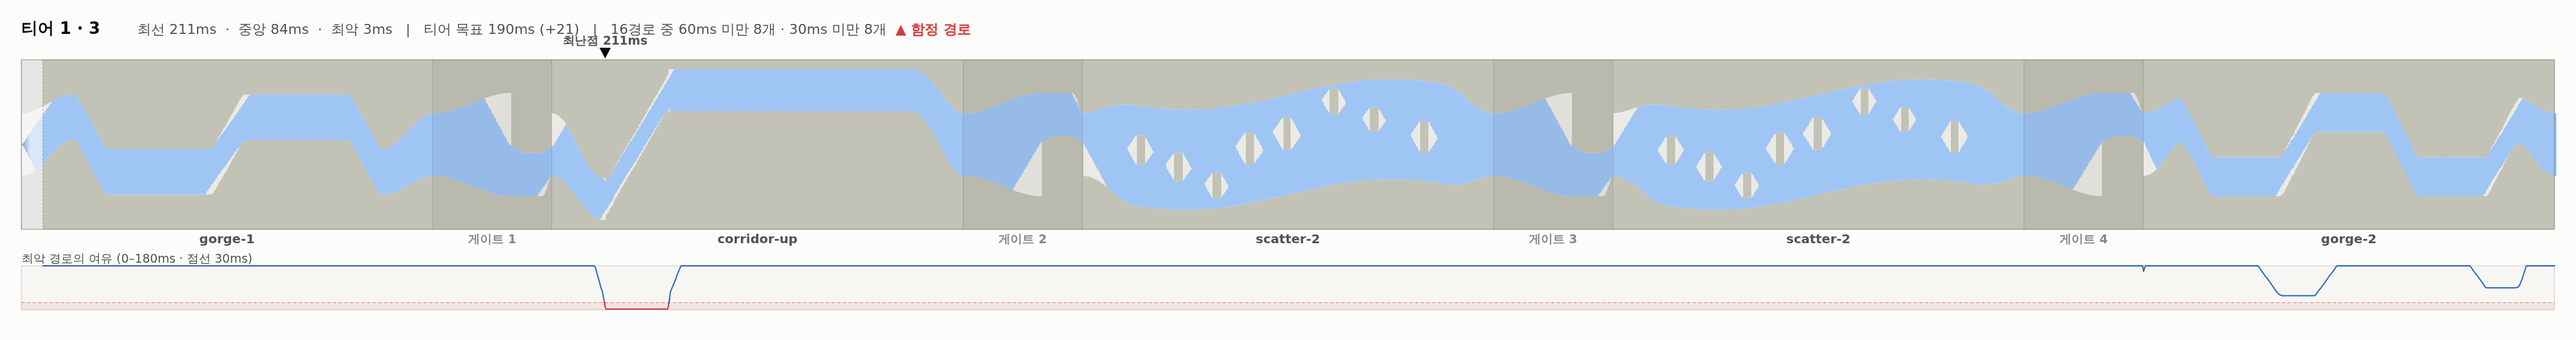
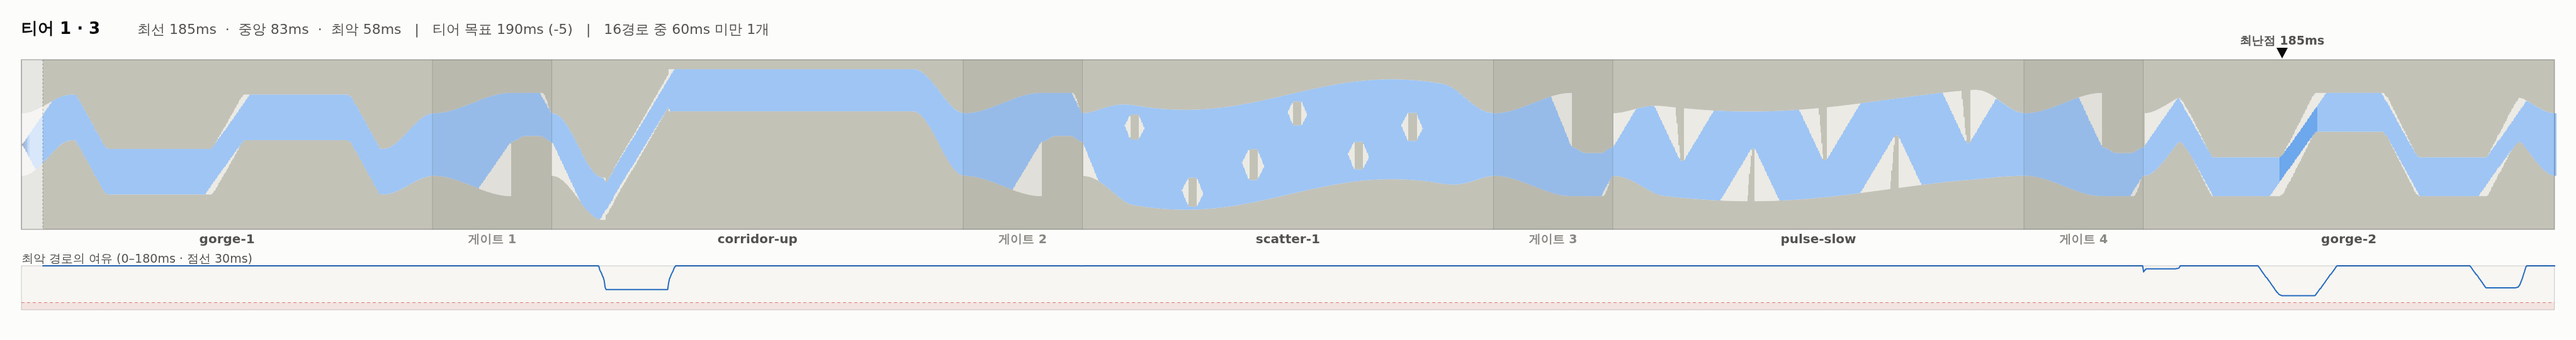
feat(wave-runner): 스테이지 재큐레이션 — 함정을 없애고 코스를 가른다
큐레이션이 통과시키던 것과 실제로 좋은 스테이지가 어긋나 있었다. 기준 네 가지를
바꾸고 12스테이지를 다시 골랐다.

- **공정성에 하한(50ms)이 생겼다.** 1번 기준이 `passable` 뿐이었는데 솔버의
  `passable` 은 여유 3ms 도 참이다. 12스테이지 중 4개가 사람에게 불가능한 경로를
  품고 있었고 검증은 전부 ✓ 였다. 하한 값은 예민하지 않다 — 후보들의 최악 여유가
  양극 분포라(티어 4: 0~10ms 48개 · 60ms+ 145개 · 사이 3개) 30ms 든 60ms 든 같다
- **최소 스프레드 기준을 없앴다.** 후보 3600개를 전수로 풀어 보니 어떤 값에서도
  병목이 아니었고, 방향이 반대였다 — 스프레드는 최선과 최악의 차이이므로 함정이
  깊을수록 높은 점수를 받는다. 함정이 가장 깊던 두 스테이지가 스프레드 최고였다
- **첫 합격에서 멈추지 않는다.** `break` 때문에 인접 티어가 같은 modal 골격으로
  빨려 들어갔다. 이제 후보를 모두 모은 뒤 티어를 가로질러 중복을 거부한다
- **티어마다 성격을 요구한다** — 1 협곡·회랑 / 2 산개 / 3 맥동 / 4 3유형 이상

공정성과 차별화는 절대 완화하지 않고, 모자라면 성격 → 밴드 순으로 푼다.

결과 (±2)

- 함정 경로 23개 → **0개**, 최악 여유의 최소값 3ms → 56ms
- 코스 중복 4/5 이상 9쌍(완전 동일 1쌍) → **0쌍**, 최악 2/5
- 티어 곡선 214/178/152/115 → **187/159/141/122** (목표 190/160/130/100)
- gorge-2 28% → 20%, corridor-flat 1회 → 5회, scatter-1 0회 → 4회

**시드가 전부 바뀌었으므로 저장된 스테이지 최고 기록은 다른 코스의 것이 된다.**

정정

제안 단계에서 "함정 없는 티어 4 의 최선 여유는 130ms 아래로 못 내려간다"고 적었는데
틀렸다. 재큐레이션이 T4·3 을 최선 79ms · 최악 56ms 로 찾았다. 130ms 는 그때 뽑은
표본의 최소값이었을 뿐 구조적 하한이 아니었다.

남은 것

- 티어 4 가 목표보다 +22 쉽다. 함정이 만들던 어려움은 여유로 되찾을 수 없고 최난
  구간의 지속 길이를 티어 지표로 들여야 한다. T4·1 과 T4·2 는 성격까지 쌍둥이다
- ±3 에서 곡선이 역전된다(티어 3 이 티어 2 보다 쉽다)

수정

- 플레이테스트 주행 상한 120 → 240초. Stage 는 사망하면 처음부터라 상한이 한 주행이
  아니라 몇 번의 재시도를 담아야 하는데, 새 T1·1 에서 오토파일럿이 한 번 죽자 모자랐다.
  함께 `playtest.mjs` 의 `protocolTimeout` 을 600초로 열었다 — 기본값 180초가
  시나리오의 상한을 대신 정하고 있었다

검증: verify PASS (lint · build · playtest 9 shots · 오류 0). 전 경로 192개 통과,
[…]

diff --git a/projects/wave-runner/tests/verify/curate-stages.ts b/projects/wave-runner/tests/verify/curate-stages.ts
@@ -5,14 +5,51 @@
  * 거의 모든 경로에서 참이었고(94~100%), 대신 **여유가 최선 198ms 와 최악 10ms 로**
  * 갈렸다. 통과 가능하지만 여유 10ms 인 경로는 사람에게는 불가능하다.
  *
- * 그래서 기준을 바꾼다. 좋은 스테이지는 세 가지를 만족한다.
+ * 좋은 스테이지는 네 가지를 만족한다.
  *
- *  1. **공정성** — 모든 경로가 통과 가능해야 한다(보이지 않는 막다른 길 금지).
+ *  1. **공정성** — 모든 경로가 통과 가능하고, **최악 경로도 사람이 낼 수 있어야 한다.**
  *  2. **난이도** — 최선 경로의 여유가 티어별 목표 구간에 들어야 한다.
- *  3. **선택의 의미** — 최선과 최악 경로의 여유 차이가 충분해야 한다.
- *     차이가 없으면 어느 관으로 가든 같으므로 게이트가 아무것도 묻지 않는다.
+ *  3. **차별화** — 다른 스테이지와 코스가 달라야 한다. 같은 길을 다시 달리면 티어가
+ *     오른 의미가 없다.
+ *  4. **티어의 성격** — 티어마다 주로 묻는 것이 달라야 한다.
  *
- * 세 번째가 3단계에서 비로소 가능해진 판정이다 — 근사로는 "여유"를 잴 수 없다.
+ * ## 0.5.1 에서 바뀐 것과 그 근거
+ *
+ * **① 공정성에 하한이 생겼다.** 그전까지 1번 기준은 `passable` 뿐이었는데, 솔버의
+ * `passable` 은 여유 3ms 도 참이다. 실제로 12스테이지 중 4개가 사람에게 불가능한
+ * 경로를 품고 있었고(티어 1 의 두 스테이지는 16경로 중 8개), 검증은 전부 통과하고
+ * 있었다. "보이지 않는 막다른 길 금지"가 형식적으로만 지켜지고 있었던 것이다.
+ *
+ * 하한을 얼마로 둘지는 다행히 예민하지 않다. 후보들의 최악 여유 분포가 **양극**이라
+ * (티어 4 기준 0~10ms 48개 · 60ms 이상 145개 · 그 사이 3개) 30ms 로 잡든 60ms 로
+ * 잡든 남는 후보가 같다. 50ms 는 그 골짜기 한가운데다.
+ *
+ * **② 최소 스프레드 기준을 없앴다.** 후보 900개 × 4티어를 전수로 풀어 보니 스프레드는
+ * 어떤 값(0/20/35)에서도 병목이 아니었다. 더 나쁜 것은 방향이다 — 스프레드는 최선과
+ * 최악의 차이이므로 **함정이 깊을수록 높은 점수를 받는다.** 실제로 함정이 가장 깊던
+ * 두 스테이지의 스프레드가 206ms, 207ms 로 가장 높았다. 하한이 생긴 이상 이 기준은
+ * 중복이면서 유해하다.
+ *
+ * **③ 첫 합격에서 멈추지 않는다.** 그전에는 조건을 만족하는 첫 시드를 잡고 `break`
+ * 했다. 그래서 인접 티어가 같은 modal 골격으로 빨려 들어갔고, T2·3 과 T3·1 은 섹터
+ * 배열이 **완전히 같아졌다.** 이제 후보를 모두 모은 뒤, 이미 채택한 코스와 같은 자리
+ * 섹터가 3개 이상 겹치면 건너뛴다(티어를 가로질러 본다).
+ *
+ * **④ 티어마다 성격을 요구한다.** 시드가 만들 수 있는 골격은 티어당 480여 가지로
+ * 충분한데, 기준이 여유만 보니 전부 비슷한 것으로 수렴했다. 무엇을 묻는 티어인지를
+ * 기준에 적어 둔다.
+ *
+ * ## 완화 순서
+ *
+ * 세 조건을 다 만족하는 후보가 3개에 못 미치면 **성격 → 밴드** 순으로 푼다.
+ * **공정성과 차별화는 절대 풀지 않는다.** 함정을 되살리거나 같은 코스를 다시 내느니
+ * 목표 여유에서 벗어나는 편이 낫다.
+ *
+ * 티어 4 에서 이 완화가 실제로 걸린다. 함정을 금지하면 티어 4 후보의 최선 여유가
+ * **130ms 아래로 내려가지 않기 때문**이다(최악 ≥50ms 인 147개 후보의 최선 최소값이
+ * 정확히 130). 목표 100ms 는 함정을 허용해야만 도달되는 값이었다 — 지금 티어 4 의
+ * 어려움 상당 부분을 함정이 만들고 있었다는 뜻이다. 이 구멍은 여유가 아니라 **최난
+ * 구간의 지속 길이**로 메워야 하고, 그건 별도 작업이다.
  *
  * 실행: pnpm exec tsx projects/wave-runner/tests/verify/curate-stages.ts
  */
@@ -24,17 +61,23 @@ import { STAGE_SECTORS, buildStageCourse } from "../../app/src/game/course";
 import { BASE_TUNING, startYFor } from "../../app/src/game/engine";
 import { MAX_TIER, STAGES_PER_TIER, stageKey } from "../../app/src/game/meta";
 import { solveCourse } from "../../app/src/game/solver";
-import type { AxisKey, Build } from "../../app/src/game/types";
+import type { AxisKey, Build, SectorType } from "../../app/src/game/types";
 
 const GATES = STAGE_SECTORS - 1;
 const PATHS = 1 << GATES;
-const CANDIDATES = 240;
+const CANDIDATES = 900;
 
 /** 티어가 오를수록 최선 경로의 여유가 좁아진다. 사람이 체감하는 난이도 곡선. */
 const targetSlackMs = (tier: number) => 190 - (tier - 1) * 30;
 const SLACK_BAND_MS = 38;
-/** 최선과 최악 경로의 여유 차이. 작으면 게이트가 아무것도 묻지 않는다. */
-const MIN_SPREAD_MS = 35;
+/**
+ * 최악 경로도 넘어야 하는 여유. 사람의 탭 타이밍 산포보다 좁은 경로는 이론상 통과
+ * 가능해도 통과할 수 없다. **측정값이 아니라 가정이다** — 다만 후보 분포가 양극이라
+ * 30~60ms 어디로 잡아도 결과가 같아, 이 가정에 대한 민감도가 낮다.
+ */
+const FAIRNESS_FLOOR_MS = 50;
+/** 이미 채택한 코스와 **같은 자리에 같은 섹터**가 이 개수를 넘으면 거부한다. */
+const MAX_SAME_SLOT = 2;
 
 /**
  * 큐레이션은 **출발 상한 ±2** 로 판정한다.
@@ -92,63 +135,114 @@ function sweep(seed: number, tier: number, tuning: typeof BASE_TUNING) {
  */
 function score(seed: number, tier: number): Score {
   const start = sweep(seed, tier, TUNING);
+  if (!start.allPassable) return { allPassable: false, bestMs: 0, worstMs: 0, spreadMs: 0 };
   const open = sweep(seed, tier, OPEN_TUNING);
   return {
-    allPassable: start.allPassable && open.allPassable,
+    allPassable: open.allPassable,
     bestMs: start.best,
     worstMs: start.worst,
     spreadMs: start.best - start.worst
   };
 }
 
-function accepts(s: Score, tier: number): boolean {
-  if (!s.allPassable) return false;
-  if (Math.abs(s.bestMs - targetSlackMs(tier)) > SLACK_BAND_MS) return false;
-  return s.spreadMs >= MIN_SPREAD_MS;
+/** 티어마다 주로 묻는 것. 유형 구성으로 표현한다. */
+const TIER_CHARACTER: Record<number, { note: string; holds: (types: SectorType[]) => boolean }> = {
+  1: {
+    note: "협곡·회랑 위주 — 동사를 몸에 익히는 자리",
+    holds: (t) => t.filter((x) => x === "gorge" || x === "corridor").length >= 3
+  },
+  2: { note: "산개 2개 이상 — 경로를 엮는다", holds: (t) => t.filter((x) => x === "scatter").length >= 2 },
+  3: { note: "맥동 2개 이상 — 타이밍을 묻는다", holds: (t) => t.filter((x) => x === "pulse").length >= 2 },
+  4: { note: "3유형 이상 — 종합", holds: (t) => new Set(t).size >= 3 }
+};
+
+interface Candidate {
+  seed: number;
+  s: Score;
+  ids: string[];
+  types: SectorType[];
 }
 
+const sectorsOf = (tier: number, seed: number) => {
+  const pieces = buildStageCourse(tier, 1, TUNING, seed).pieces.filter((p) => p.kind === "sector");
+  return {
+    ids: pieces.map((p) => p.sector!.id),
+    types: pieces.map((p) => p.sector!.type)
+  };
+};
+
+const sameSlots = (a: string[], b: string[]) => a.filter((v, i) => v === b[i]).length;
+
 const table: Record<string, number> = {};
+/** 차별화는 티어를 가로질러 본다 — T2·3 과 T3·1 이 같아졌던 것이 그래서다. */
+const takenCourses: string[][] = [];
+const lines: string[] = [];
 
 for (let tier = 1; tier <= MAX_TIER; tier += 1) {
-  for (let no = 1; no <= STAGES_PER_TIER; no += 1) {
-    let chosen = -1;
-    let chosenScore: Score | null = null;
-    let fallback = -1;
-    let fallbackScore: Score | null = null;
-    let fallbackErr = Number.POSITIVE_INFINITY;
+  const pool: Candidate[] = [];
+  let nPassable = 0;
+  for (let i = 0; i < CANDIDATES; i += 1) {
+    const seed = (tier * 7919 + i * 2654435761) >>> 0;
+    const s = score(seed, tier);
+    if (!s.allPassable) continue;
+    nPassable += 1;
+    // 공정성은 절대 풀지 않는 관문이다.
+    if (s.worstMs < FAIRNESS_FLOOR_MS) continue;
+    pool.push({ seed, s, ...sectorsOf(tier, seed) });
+  }
+  pool.sort((a, b) => Math.abs(a.s.bestMs - targetSlackMs(tier)) - Math.abs(b.s.bestMs - targetSlackMs(tier)));
 
-    for (let i = 0; i < CANDIDATES; i += 1) {
-      const seed = (tier * 7919 + no * 104729 + i * 2654435761) >>> 0;
-      const s = score(seed, tier);
-      const err = Math.abs(s.bestMs - targetSlackMs(tier)) + Math.max(0, MIN_SPREAD_MS - s.spreadMs);
-      if (s.allPassable && err < fallbackErr) {
-        fallbackErr = err;
-        fallback = seed;
-        fallbackScore = s;
-      }
-      if (accepts(s, tier)) {
-        chosen = seed;
-        chosenScore = s;
-        break;
-      }
+  const picked: Candidate[] = [];
+  const take = (requireCharacter: boolean, requireBand: boolean) => {
+    for (const c of pool) {
+      if (picked.length >= STAGES_PER_TIER) return;
+      if (picked.includes(c)) continue;
+      if (requireBand && Math.abs(c.s.bestMs - targetSlackMs(tier)) > SLACK_BAND_MS) continue;
+      if (requireCharacter && !TIER_CHARACTER[tier].holds(c.types)) continue;
+      if (takenCourses.some((t) => sameSlots(t, c.ids) > MAX_SAME_SLOT)) continue;
+      if (picked.some((p) => sameSlots(p.ids, c.ids) > MAX_SAME_SLOT)) continue;
+      picked.push(c);
+      takenCourses.push(c.ids);
     }
+  };
+  take(true, true);
+  const relaxedCharacter = picked.length < STAGES_PER_TIER;
+  if (relaxedCharacter) take(false, true);
+  const relaxedBand = picked.length < STAGES_PER_TIER;
+  if (relaxedBand) take(false, false);
 
-    if (chosen < 0) {
-      chosen = fallback;
-      chosenScore = fallbackScore;
-    }
-    table[stageKey(tier, no)] = chosen;
-    const s = chosenScore;
-    const mark = s && accepts(s, tier) ? "✓" : "△";
-    console.log(
-      `티어 ${tier} · ${no}  seed ${String(chosen).padStart(10)}` +
-        `  최선 ${s ? s.bestMs.toFixed(0) : "?"}ms (목표 ${targetSlackMs(tier)})` +
-        `  최악 ${s ? s.worstMs.toFixed(0) : "?"}ms` +
-        `  차이 ${s ? s.spreadMs.toFixed(0) : "?"}ms  ${mark}`
+  // 티어 안에서는 쉬운 것부터 — 같은 티어라도 1 → 3 으로 갈수록 조여지는 편이 낫다.
+  picked.sort((a, b) => b.s.bestMs - a.s.bestMs);
+
+  const relaxed = relaxedBand ? "밴드까지 완화" : relaxedCharacter ? "성격 완화" : "완화 없음";
+  lines.push(
+    `티어 ${tier}  ${TIER_CHARACTER[tier].note}\n` +
+      `        전경로통과 ${nPassable}/${CANDIDATES} → 공정성 하한 통과 ${pool.length} → 채택 ${picked.length}/${STAGES_PER_TIER} (${relaxed})`
+  );
+  picked.forEach((c, i) => {
+    table[stageKey(tier, i + 1)] = c.seed;
+    const off = c.s.bestMs - targetSlackMs(tier);
+    lines.push(
+      `  ${tier}·${i + 1}  seed ${String(c.seed).padStart(10)}` +
+        `  최선 ${c.s.bestMs.toFixed(0).padStart(3)}ms (목표 ${targetSlackMs(tier)}, ${off >= 0 ? "+" : ""}${off.toFixed(0)})` +
+        `  최악 ${c.s.worstMs.toFixed(0).padStart(3)}ms   ${c.ids.join(" → ")}`
     );
+  });
+  if (picked.length < STAGES_PER_TIER) {
+    lines.push(`  ⚠ 티어 ${tier}: 후보가 모자란다. CANDIDATES 를 늘리거나 목표를 조정해야 한다.`);
   }
 }
 
+lines.forEach((l) => console.log(l));
+
+// 얻어진 차별화와 커버리지를 그 자리에서 확인한다 — 기준이 실제로 먹었는지는 결과로만 안다.
+let worstOverlap = 0;
+for (let i = 0; i < takenCourses.length; i += 1)
+  for (let j = i + 1; j < takenCourses.length; j += 1)
+    worstOverlap = Math.max(worstOverlap, sameSlots(takenCourses[i], takenCourses[j]));
+const used = new Set(takenCourses.flat());
+console.log(`\n코스 중복 최악 ${worstOverlap}/5 (기준 ${MAX_SAME_SLOT})   섹터 커버리지 ${used.size}/12`);
+
 const out = path.join(fileURLToPath(new URL("../../app/src/game/stage-seeds.json", import.meta.url)));
 writeFileSync(out, `${JSON.stringify(table, null, 2)}\n`, "utf8");
-console.log(`\n${Object.keys(table).length}개 시드를 ${path.basename(out)} 에 구웠다.`);
+console.log(`${Object.keys(table).length}개 시드를 ${path.basename(out)} 에 구웠다.`);

diff --git a/projects/wave-runner/notes/course-difficulty/2026-09-16.md b/projects/wave-runner/notes/course-difficulty/2026-09-16.md
@@ -1,0 +1,77 @@
+# 통로 난이도 — 재큐레이션 전후 비교
+
+큐레이션 기준 네 가지를 바꾸고(공정성 하한 도입 · 최소 스프레드 제거 · 첫 합격 중단 제거 +
+코스 중복 거부 · 티어 성격 요구) 12스테이지를 다시 골랐다. 시드가 전부 바뀌었으므로
+저장된 `bestStageSec` 기록은 다른 코스의 것이 되었다.
+
+측정은 전부 축 상한 ±2(처음 만나는 조건, 큐레이션이 겨냥하는 값) 기준이다.
+
+## 결론
+
+**함정이 사라졌고 코스가 갈라졌다.** 사람에게 사실상 불가능한 경로 23개가 0개가 되었고,
+섹터 배열이 4/5 이상 겹치던 9쌍(그중 완전 동일 1쌍)이 0쌍이 되었다. 티어 1·2 의 곡선은
+목표와 거의 일치한다.
+
+**티어 4 는 예고한 대로 메워지지 않았다.** 목표 100ms 인데 실측 122ms 이고, 4·1 과 4·2 는
+최선 143ms 로 +43 이다. 함정이 만들던 어려움을 여유로는 되찾을 수 없다 — 최난 구간의
+지속 길이를 티어 지표로 들이는 별도 작업이 필요하다.
+
+## 숫자
+
+| 지표 | 전 | 후 |
+|---|---|---|
+| 함정 경로(여유 30ms 미만) | 4스테이지 · 23경로 | **0** |
+| 최악 여유의 최소값 | 3ms | **56ms** |
+| 여유 60ms 미만 경로(192경로 중) | 45개 | **14개** |
+| 코스 중복 4/5 이상 | 9쌍(완전 동일 1쌍) | **0쌍** (최악 2/5) |
+| 최다 사용 섹터 | gorge-2 17회 (28%) | gorge-2 12회 (20%) |
+| 섹터 커버리지 | 11/12 (scatter-1 미사용) | 11/12 (pulse-fast 미사용) |
+| 티어 곡선 (목표 190/160/130/100) | 214 / 178 / 152 / 115 | **187 / 159 / 141 / 122** |
+| 목표 대비 편차 | +24 / +18 / +22 / +15 | **−3 / −1 / +11 / +22** |
+
+## 그림에서 보이는 것
+
+12개 스트립의 실루엣이 전부 다르다. 이전에는 거의 모든 코스가
+`협곡 → 회랑 → 산개 → 맥동 → 협곡` 한 골격에 변주 하나였고 T2·3 과 T3·1 은 같은 그림이었다.
+
+최악 경로 선(스트립 아래)에서 빨간 구간이 전부 사라졌다. 이전에는 T1·2, T1·3 이 게이트 1
+직후 `corridor-up` 초입에서, T4·1 과 T4·3 이 마지막 `gorge-3` 에서 30ms 아래로 떨어졌다.
+
+`corridor-flat` 이 1회에서 5회로 늘었고, 그 구간은 균일한 진한 직사각형으로 보인다 —
+뾰족한 지점이 아니라 **지속 정밀**을 요구하는 유일한 형상이다.
+
+## 틀렸던 것을 정정한다
+
+제안 단계에서 **"함정 없는 티어 4 의 최선 여유는 130ms 아래로 내려갈 수 없다"** 고 적었다.
+틀렸다. 재큐레이션이 T4·3 을 최선 79ms · 최악 56ms 로 찾아냈다. 130ms 는 그때 뽑은
+후보 900개(다른 시드 수열)의 최소값이었을 뿐 구조적 하한이 아니었다. 표본의 최소값을
+경계로 일반화한 잘못이다.
+
+다만 방향 자체는 유지된다 — 그런 후보가 **희귀하다**. 티어 4 는 전 경로 통과가 226/900
+이고 하한까지 통과하면 151개로, 티어 1(795 → 418)의 3분의 1 수준이다.
+
+## 남은 문제
+
+- **T4·1 과 T4·2 가 성격상 쌍둥이다.** 최선 143 · 최악 107 · 최난 구간 373단위 `corridor-flat`
+  까지 같다. 중복 기준이 "같은 자리 같은 섹터"만 보기 때문에 자리가 어긋나면 통과한다.
+  유형 구성이나 난이도 프로파일까지 보는 기준이 필요하다.
+- **±3 에서 곡선이 역전된다.** 티어 3(172ms)이 티어 2(157ms)보다 쉽다. T3·2 가 ±2 에서
+  143ms 인데 ±3 에서 200ms 로 튄다. 큐레이션이 ±2 로만 재고 ±3 은 공정성만 묻기 때문이다.
+- **게이트가 묻는 것이 줄어든 스테이지가 있다.** T1·1 의 스프레드가 55ms, T3·2 가 31ms 다.
+  최소 스프레드 기준을 없앤 대가다. 그 기준은 함정을 보상하고 있어서 없애는 게 맞았지만,
+  하한이 생긴 지금은 **상한이 아니라 하한이 있는 스프레드 기준**을 다시 넣을 수 있다.
+- **pulse-fast 가 한 번도 안 나온다.** scatter-1 을 얻고 pulse-fast 를 잃어 커버리지는 11/12
+  그대로다.
+- **오토파일럿이 T1·1 에서 한 번 죽는다**(이전에는 12스테이지 전부 무사망). 16경로 전부
+  133ms 이상이라 공정성 문제는 아니고, 파일럿의 관 선택 정책이 여유가 아니라 빌드 중립을
+  겨냥하기 때문으로 보인다. 첫 스테이지치고 조인 편이라는 신호일 수는 있다.
+
+## 검증
+
+`verify` PASS — lint · build · playtest(9 shots · 오류 0). 전 경로 검증은 12스테이지 ×
+16경로 × 2상한 = 192경로 전부 통과하고, ±3 에서도 최악 여유가 56ms 아래로 내려가지 않는다.
+
+플레이테스트 하네스의 주행 상한을 240초로 올렸다. Stage 는 사망하면 처음부터 다시
+시작하므로 상한이 한 주행이 아니라 몇 번의 재시도를 담아야 하는데, 이전 값 120초는
+한 번 죽으면 부족했다. 함께 `playtest.mjs` 의 `protocolTimeout` 을 600초로 열었다 —
+그 기본값 180초가 시나리오의 상한을 대신 정하고 있었다.

diff --git a/projects/wave-runner/changelog.md b/projects/wave-runner/changelog.md
@@ -117,3 +117,46 @@ Endless 코스 재현성 수정.
 
 - 자동 플레이테스트의 주행 상한(180초)이 puppeteer `protocolTimeout` 기본값과 같아, Endless 가 오래 버틴 날에는 시나리오가 아니라 **프로토콜이 먼저 끊겨** 실패했다. 상한을 120초로 낮춰 여유를 뒀다
 - 시나리오에 주행 중 화면 두 장(`03b-stage-running`, `06b-endless-running`)을 추가했다 — 페이지 안에서 도는 오토파일럿을 기다리지 않고 그 사이에 찍는다
+
+## 0.5.1 — 2026-09-16
+
+스테이지 재큐레이션. 함정 경로를 없애고 코스를 갈랐다.
+
+큐레이션 기준 네 가지를 바꿨다.
+
+- **공정성에 하한이 생겼다(50ms).** 그전 1번 기준은 `passable` 뿐이었는데 솔버의
+  `passable` 은 여유 3ms 도 참이다. 12스테이지 중 4개가 사람에게 불가능한 경로를 품고
+  있었고(티어 1 의 두 스테이지는 16경로 중 8개) 검증은 전부 통과하고 있었다
+  - 하한 값은 예민하지 않다. 후보들의 최악 여유가 **양극 분포**라(티어 4 기준 0~10ms
+    48개 · 60ms 이상 145개 · 그 사이 3개) 30ms 든 60ms 든 남는 후보가 같다
+- **최소 스프레드 기준을 없앴다.** 후보 3600개를 전수로 풀어 보니 어떤 값에서도 병목이
+  아니었고, 방향이 더 나빴다 — 스프레드는 최선과 최악의 차이이므로 **함정이 깊을수록
+  높은 점수를 받는다.** 함정이 가장 깊던 두 스테이지의 스프레드가 206·207ms 로 최고였다
+- **첫 합격에서 멈추지 않는다.** 그전에는 조건을 만족하는 첫 시드에서 `break` 해서 인접
+  티어가 같은 골격으로 빨려 들어갔다. 이제 후보를 모두 모은 뒤, 티어를 가로질러 이미
+  채택한 코스와 같은 자리 섹터가 3개 이상 겹치면 건너뛴다
+- **티어마다 성격을 요구한다.** 티어 1 협곡·회랑 위주 · 티어 2 산개 · 티어 3 맥동 ·
+  티어 4 3유형 이상
+
+결과 (축 상한 ±2)
+
+- 함정 경로 **23개 → 0개**. 최악 여유의 최소값 3ms → 56ms
+- 코스 중복 4/5 이상 **9쌍(완전 동일 1쌍) → 0쌍**, 최악 2/5
+- 티어 곡선 214/178/152/115 → **187/159/141/122** (목표 190/160/130/100)
+- 섹터 편중 완화 — gorge-2 28% → 20%, `corridor-flat` 1회 → 5회, `scatter-1` 0회 → 4회
+
+**시드가 전부 바뀌었으므로 저장된 스테이지 최고 기록은 다른 코스의 것이 된다.**
+
+남은 것
+
+- **티어 4 가 목표보다 +22 쉽다.** 함정이 만들던 어려움은 여유로 되찾을 수 없다 —
+  최난 구간의 지속 길이를 티어 지표로 들여야 한다. T4·1 과 T4·2 는 성격까지 쌍둥이다
+- **±3 에서 곡선이 역전된다**(티어 3 이 티어 2 보다 쉽다). 큐레이션이 ±2 로만 재고
+  ±3 은 공정성만 묻기 때문이다
+
+수정한 것
+
+- 플레이테스트 주행 상한을 240초로. Stage 는 사망하면 처음부터라서 상한이 한 주행이
+  아니라 몇 번의 재시도를 담아야 하는데 120초는 한 번 죽으면 모자랐다. 함께
+  `playtest.mjs` 의 `protocolTimeout` 을 600초로 열었다 — 기본값 180초가 시나리오의
+  상한을 대신 정하고 있었다

diff --git a/projects/wave-runner/eval.md b/projects/wave-runner/eval.md
@@ -70,5 +70,9 @@ pnpm exec tsx projects/wave-runner/tests/verify/curate-stages.ts        # 스테
 - **런 초반 3섹터는 생성되지 않는다.** 공장에 줄 시간이 없는 자리라 수제 섹터로 **고정했다**(0.3.1). 재현성은 그래서 성립하지만 첫 30초의 다양성은 수제 12개 안에서만 나온다.
 - **Endless 도입부 3섹터 고정.** 재현성을 위해 그 자리를 수제 섹터로 못박은 대가다. 난이도 1.0~1.26 구간에는 유형별 후보가 하나뿐이라 변주가 유형 순환에서만 온다.
 - **1단계 중단 판정.** 여전히 미수행이다.
+- **티어 4 의 난이도를 여유로 만들 수 없다.** 0.5.1 에서 함정 경로를 금지하자 티어 4 가
+  목표 100ms 에서 실측 122ms 로 물러났다. 함정이 어려움의 상당 부분을 만들고 있었던 것이다.
+  최난 구간의 지속 길이를 티어 지표로 들여야 메워진다.
+- **±3 에서 티어 곡선이 역전된다.** 큐레이션이 ±2 로만 재고 ±3 에서는 공정성만 묻는다.
 - **Stage 의 페이스 고스트.** 주행 중 기록과의 비교는 "경과가 최고를 넘었는가"(경신 불가 확정)까지만 말한다. "지금 기록보다 앞서는가"는 빌드마다 속도가 달라 주행 궤적을 저장해야 정확해진다 — 추정을 기록처럼 보여주지 않으려고 넣지 않았다.
 - **좌상단 숫자가 통로와 겹칠 수 있다.** 통로가 화면 맨 위까지 오르는 구간에서는 숫자가 벽이 아니라 통로 위에 얹힌다. 아바타(좌측 28%) 뒤쪽이고 불투명도가 낮아 실측에서는 문제되지 않았지만, 구조적 보장은 아니다.
